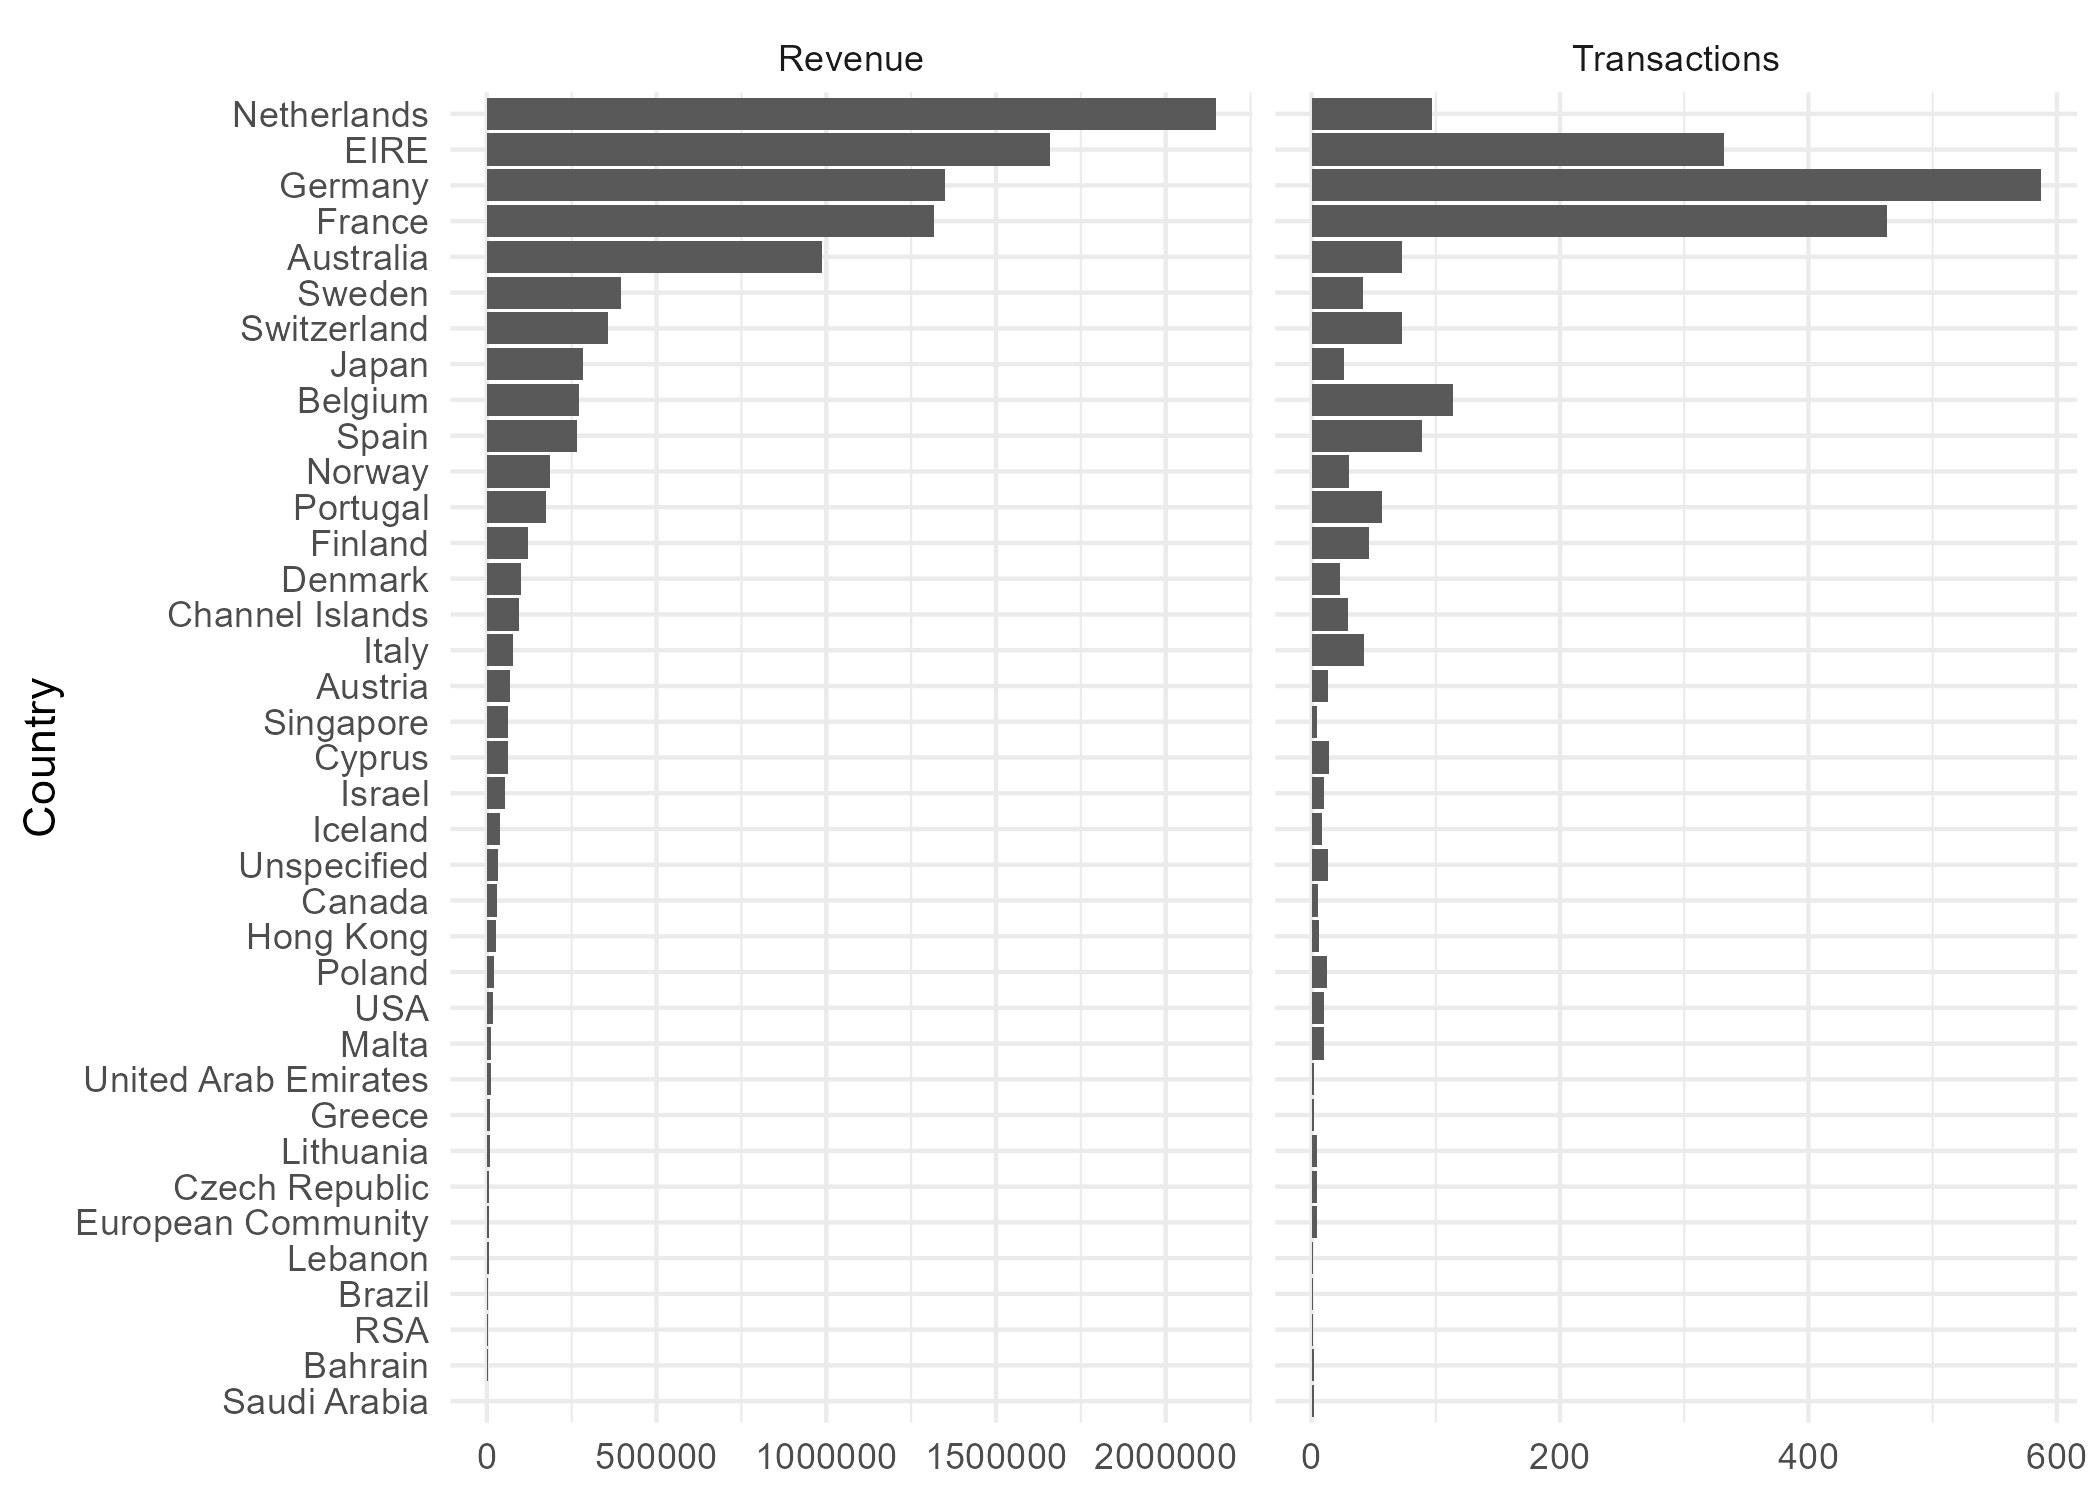
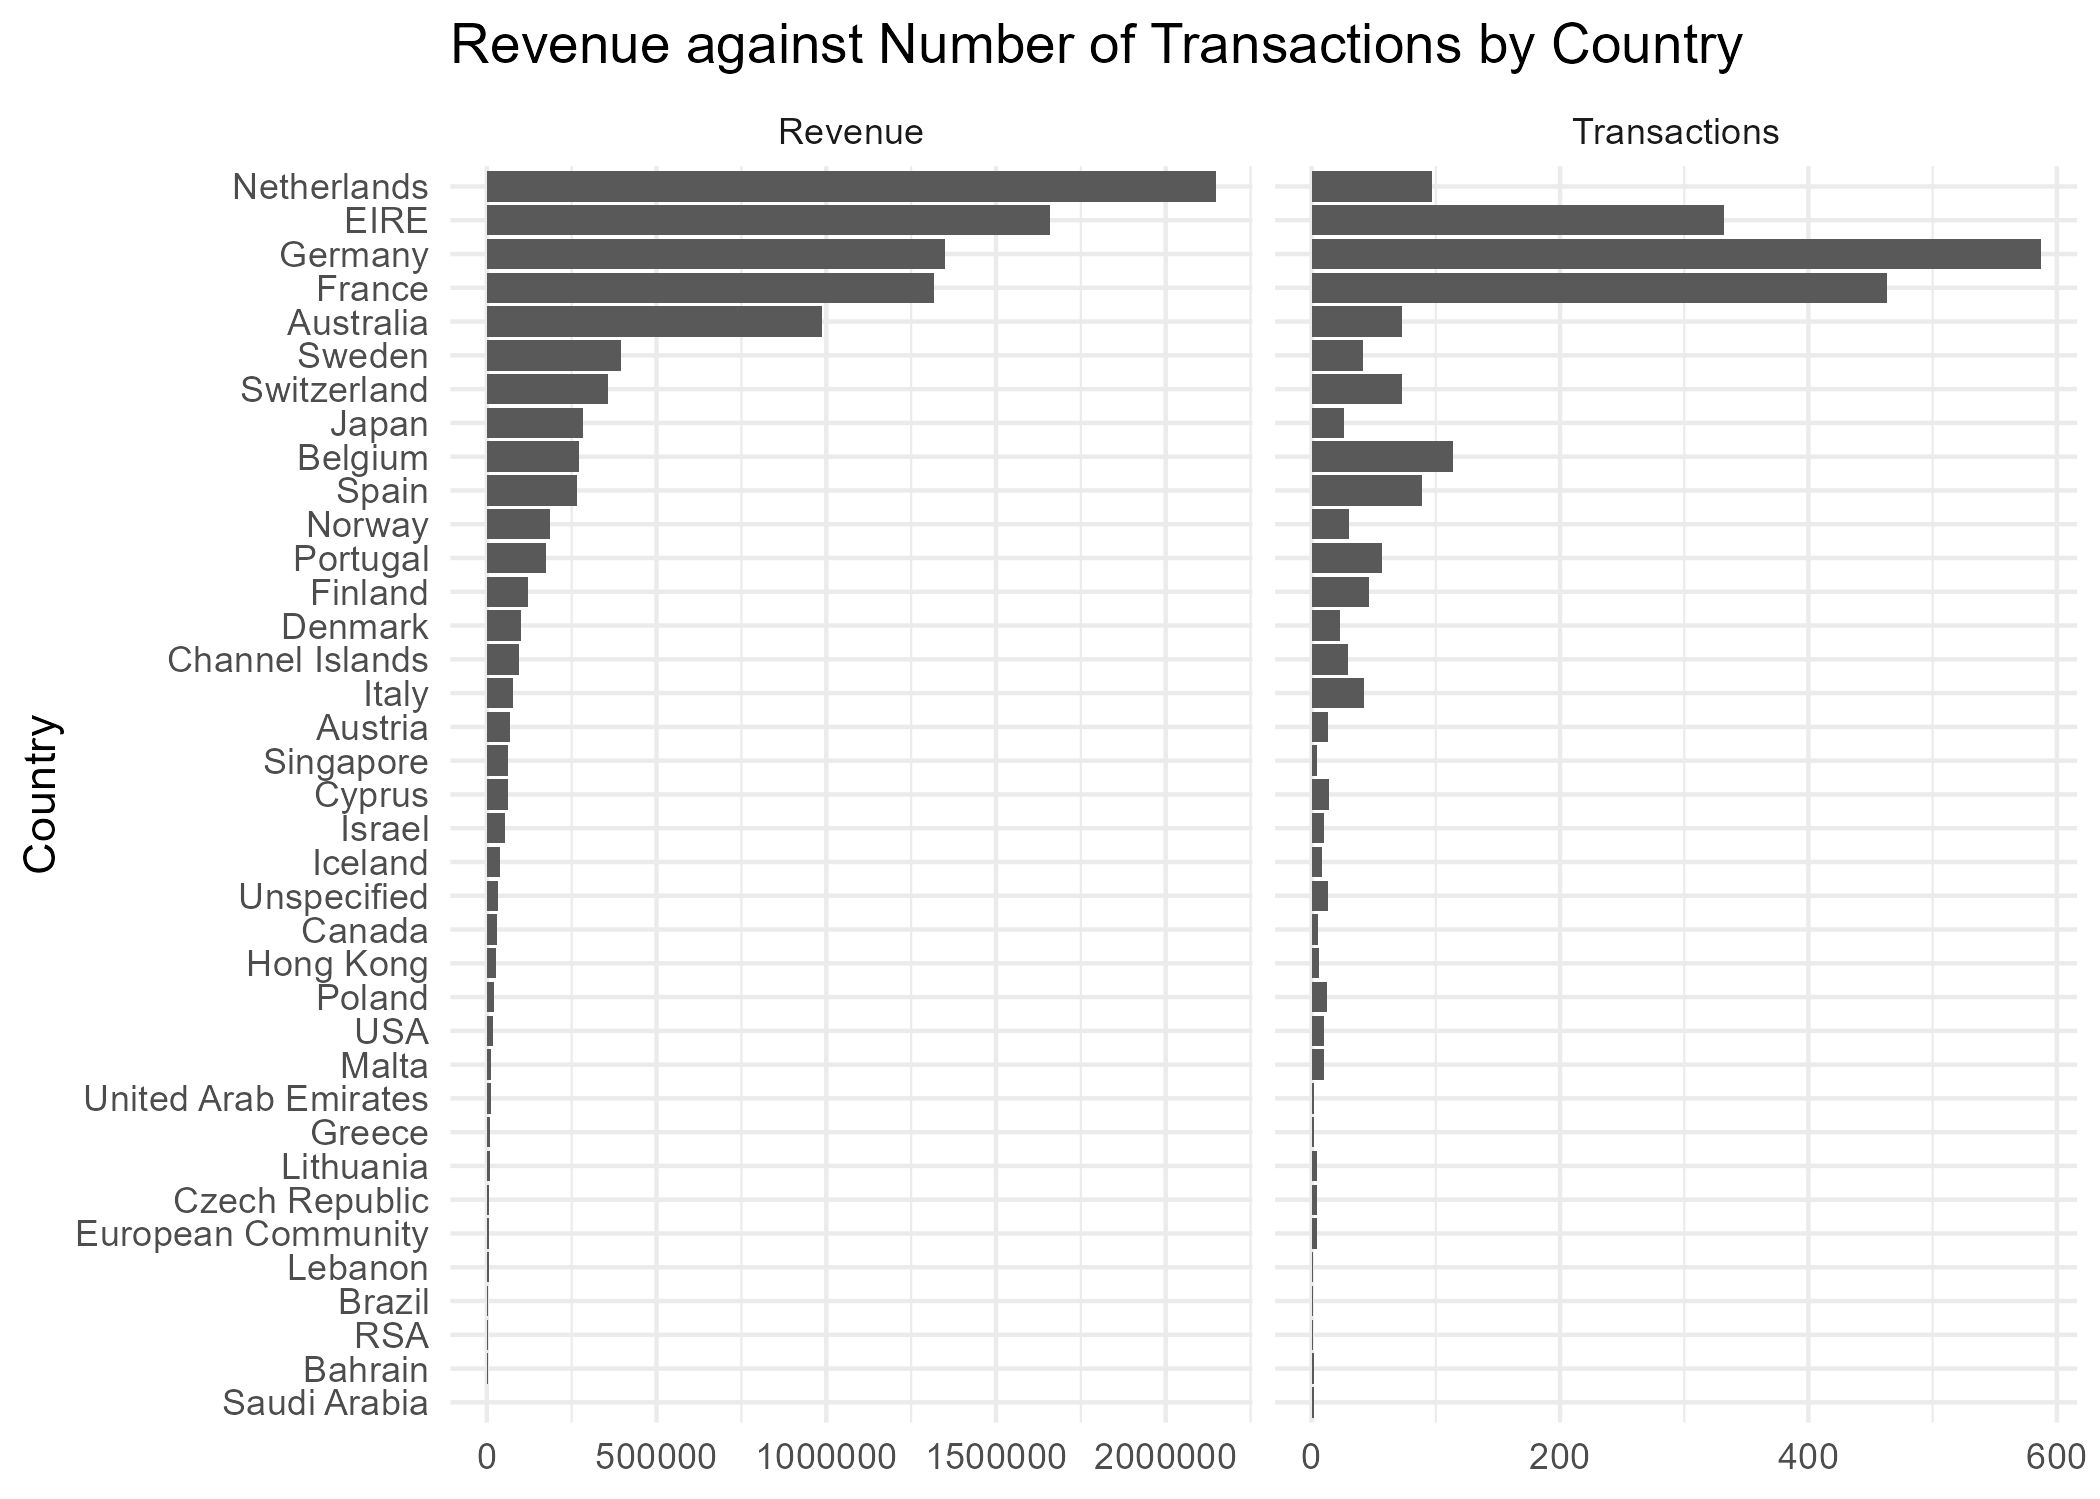
Edits and re-render of report

Changed region(s): [[0.031, 0.0, 0.9905, 0.9513], [0.0, 0.4603, 0.031, 0.5831], [0.619, 0.5831, 0.65, 0.6137]]

diff --git a/report.html b/report.html
@@ -10,7 +10,7 @@
 <meta name="author" content="Duc Hoang">
 <meta name="author" content="Aatish Prasad">
 <meta name="author" content="Kishori Akola">
-<meta name="dcterms.date" content="2026-06-07">
+<meta name="dcterms.date" content="2026-06-08">
 
 <title>Your Project Title</title>
 <style>
@@ -81,31 +81,32 @@ div.csl-indent {
     <h2 id="toc-title">Table of contents</h2>
    
   <ul>
-  <li><a href="#introduction" id="toc-introduction" class="nav-link active" data-scroll-target="#introduction"><span class="header-section-number">1</span> Introduction</a>
+  <li><a href="#executive-summary" id="toc-executive-summary" class="nav-link active" data-scroll-target="#executive-summary"><span class="header-section-number">1</span> Executive Summary</a></li>
+  <li><a href="#introduction" id="toc-introduction" class="nav-link" data-scroll-target="#introduction"><span class="header-section-number">2</span> Introduction</a>
   <ul class="collapse">
-  <li><a href="#research-design-and-purpose" id="toc-research-design-and-purpose" class="nav-link" data-scroll-target="#research-design-and-purpose"><span class="header-section-number">1.1</span> Research Design and Purpose</a></li>
+  <li><a href="#research-design-and-purpose" id="toc-research-design-and-purpose" class="nav-link" data-scroll-target="#research-design-and-purpose"><span class="header-section-number">2.1</span> Research Design and Purpose</a></li>
   </ul></li>
-  <li><a href="#methodology" id="toc-methodology" class="nav-link" data-scroll-target="#methodology"><span class="header-section-number">2</span> Methodology</a>
+  <li><a href="#methodology" id="toc-methodology" class="nav-link" data-scroll-target="#methodology"><span class="header-section-number">3</span> Methodology</a>
   <ul class="collapse">
-  <li><a href="#data-collection-and-sources" id="toc-data-collection-and-sources" class="nav-link" data-scroll-target="#data-collection-and-sources"><span class="header-section-number">2.1</span> Data Collection and Sources</a></li>
-  <li><a href="#preparing-dataset-for-analysis" id="toc-preparing-dataset-for-analysis" class="nav-link" data-scroll-target="#preparing-dataset-for-analysis"><span class="header-section-number">2.2</span> Preparing Dataset for Analysis</a></li>
-  <li><a href="#analysing-sales-trends-over-time" id="toc-analysing-sales-trends-over-time" class="nav-link" data-scroll-target="#analysing-sales-trends-over-time"><span class="header-section-number">2.3</span> Analysing Sales Trends over Time</a></li>
+  <li><a href="#data-collection-and-sources" id="toc-data-collection-and-sources" class="nav-link" data-scroll-target="#data-collection-and-sources"><span class="header-section-number">3.1</span> Data Collection and Sources</a></li>
+  <li><a href="#preparing-dataset-for-analysis" id="toc-preparing-dataset-for-analysis" class="nav-link" data-scroll-target="#preparing-dataset-for-analysis"><span class="header-section-number">3.2</span> Preparing Dataset for Analysis</a></li>
+  <li><a href="#analysing-sales-trends-over-time" id="toc-analysing-sales-trends-over-time" class="nav-link" data-scroll-target="#analysing-sales-trends-over-time"><span class="header-section-number">3.3</span> Analysing Sales Trends over Time</a></li>
   </ul></li>
-  <li><a href="#results" id="toc-results" class="nav-link" data-scroll-target="#results"><span class="header-section-number">3</span> Results</a>
+  <li><a href="#results" id="toc-results" class="nav-link" data-scroll-target="#results"><span class="header-section-number">4</span> Results</a>
   <ul class="collapse">
-  <li><a href="#number-of-orders-and-total-volume-by-month" id="toc-number-of-orders-and-total-volume-by-month" class="nav-link" data-scroll-target="#number-of-orders-and-total-volume-by-month"><span class="header-section-number">3.1</span> Number of orders and total Volume by month</a></li>
-  <li><a href="#general-quantitative-metrics" id="toc-general-quantitative-metrics" class="nav-link" data-scroll-target="#general-quantitative-metrics"><span class="header-section-number">3.2</span> General Quantitative metrics</a></li>
-  <li><a href="#countries-basket-value" id="toc-countries-basket-value" class="nav-link" data-scroll-target="#countries-basket-value"><span class="header-section-number">3.3</span> Countries’ basket value</a></li>
-  <li><a href="#cancelled-orders-insight" id="toc-cancelled-orders-insight" class="nav-link" data-scroll-target="#cancelled-orders-insight"><span class="header-section-number">3.4</span> Cancelled orders insight</a></li>
+  <li><a href="#number-of-orders-and-total-volume-by-month" id="toc-number-of-orders-and-total-volume-by-month" class="nav-link" data-scroll-target="#number-of-orders-and-total-volume-by-month"><span class="header-section-number">4.1</span> Number of orders and total Volume by month</a></li>
+  <li><a href="#general-quantitative-metrics" id="toc-general-quantitative-metrics" class="nav-link" data-scroll-target="#general-quantitative-metrics"><span class="header-section-number">4.2</span> General Quantitative metrics</a></li>
+  <li><a href="#sec-basket-values" id="toc-sec-basket-values" class="nav-link" data-scroll-target="#sec-basket-values"><span class="header-section-number">4.3</span> Countries’ basket value</a></li>
+  <li><a href="#cancelled-orders-insight" id="toc-cancelled-orders-insight" class="nav-link" data-scroll-target="#cancelled-orders-insight"><span class="header-section-number">4.4</span> Cancelled orders insight</a></li>
   </ul></li>
-  <li><a href="#dicussion" id="toc-dicussion" class="nav-link" data-scroll-target="#dicussion"><span class="header-section-number">4</span> Dicussion</a>
+  <li><a href="#dicussion" id="toc-dicussion" class="nav-link" data-scroll-target="#dicussion"><span class="header-section-number">5</span> Dicussion</a>
   <ul class="collapse">
-  <li><a href="#general-market-is-seasonal" id="toc-general-market-is-seasonal" class="nav-link" data-scroll-target="#general-market-is-seasonal"><span class="header-section-number">4.1</span> General market is Seasonal</a></li>
-  <li><a href="#high-value-international-b2b-market" id="toc-high-value-international-b2b-market" class="nav-link" data-scroll-target="#high-value-international-b2b-market"><span class="header-section-number">4.2</span> High value international B2B market</a></li>
-  <li><a href="#barrier-regarding-international-sales" id="toc-barrier-regarding-international-sales" class="nav-link" data-scroll-target="#barrier-regarding-international-sales"><span class="header-section-number">4.3</span> Barrier regarding international sales</a></li>
+  <li><a href="#general-market-is-seasonal" id="toc-general-market-is-seasonal" class="nav-link" data-scroll-target="#general-market-is-seasonal"><span class="header-section-number">5.1</span> General market is Seasonal</a></li>
+  <li><a href="#high-value-international-b2b-market" id="toc-high-value-international-b2b-market" class="nav-link" data-scroll-target="#high-value-international-b2b-market"><span class="header-section-number">5.2</span> High value international B2B market</a></li>
+  <li><a href="#barrier-regarding-international-sales" id="toc-barrier-regarding-international-sales" class="nav-link" data-scroll-target="#barrier-regarding-international-sales"><span class="header-section-number">5.3</span> Barrier regarding international sales</a></li>
   </ul></li>
-  <li><a href="#recommendation" id="toc-recommendation" class="nav-link" data-scroll-target="#recommendation"><span class="header-section-number">5</span> Recommendation</a></li>
-  <li><a href="#references" id="toc-references" class="nav-link" data-scroll-target="#references"><span class="header-section-number">6</span> References</a></li>
+  <li><a href="#recommendation" id="toc-recommendation" class="nav-link" data-scroll-target="#recommendation"><span class="header-section-number">6</span> Recommendation</a></li>
+  <li><a href="#references" id="toc-references" class="nav-link" data-scroll-target="#references"><span class="header-section-number">7</span> References</a></li>
   </ul>
 <div class="quarto-alternate-formats"><h2>Other Formats</h2><ul><li><a href="report.pdf"><i class="bi bi-file-pdf"></i>PDF</a></li></ul></div></nav>
 </div>
@@ -133,7 +134,7 @@ div.csl-indent {
     <div>
     <div class="quarto-title-meta-heading">Published</div>
     <div class="quarto-title-meta-contents">
-      <p class="date">June 7, 2026</p>
+      <p class="date">June 8, 2026</p>
     </div>
   </div>
   
@@ -145,10 +146,27 @@ div.csl-indent {
 </header>
 
 
-<section id="introduction" class="level2" data-number="1">
-<h2 data-number="1" class="anchored" data-anchor-id="introduction"><span class="header-section-number">1</span> Introduction</h2>
-<section id="research-design-and-purpose" class="level3" data-number="1.1">
-<h3 data-number="1.1" class="anchored" data-anchor-id="research-design-and-purpose"><span class="header-section-number">1.1</span> Research Design and Purpose</h3>
+<div class="callout callout-style-default callout-important callout-titled">
+<div class="callout-header d-flex align-content-center">
+<div class="callout-icon-container">
+<i class="callout-icon"></i>
+</div>
+<div class="callout-title-container flex-fill">
+Important
+</div>
+</div>
+<div class="callout-body-container callout-body">
+<p>Please run <code>renv::restore()</code> in the R console before attempting to render this document.</p>
+</div>
+</div>
+<section id="executive-summary" class="level2" data-number="1">
+<h2 data-number="1" class="anchored" data-anchor-id="executive-summary"><span class="header-section-number">1</span> Executive Summary</h2>
+<p>This report analyses the retail transaction data of a UK based e-retailer selling gifts and house ware for all ages, to identify sales and revenue patterns across the United Kingdom and international markets during the Jan 2019 - Dec 2019 period. The data set was cleaned by removing duplicate records and creating new variables to support analysis. The primary focus of this report was to compare transaction volume and the revenue generated within the UK and in the international market, with a secondary focus on identifying countries outside the UK that may represent viable growth opportunities. Results indicated that while the majority of transaction volume and revenue was generated by the UK, a few countries, such as the Netherlands and Ireland (EIRE), had a disproportionately higher revenue against transaction volume, which may merit further investigation.</p>
+</section>
+<section id="introduction" class="level2" data-number="2">
+<h2 data-number="2" class="anchored" data-anchor-id="introduction"><span class="header-section-number">2</span> Introduction</h2>
+<section id="research-design-and-purpose" class="level3" data-number="2.1">
+<h3 data-number="2.1" class="anchored" data-anchor-id="research-design-and-purpose"><span class="header-section-number">2.1</span> Research Design and Purpose</h3>
 <blockquote class="blockquote">
 <p><strong>Purpose</strong>: examine the sales performance of a UK-based online retail business over a 13-month period from December 2018 to December 2019.</p>
 </blockquote>
@@ -156,16 +174,16 @@ div.csl-indent {
 <p>This study first adopts a descriptive analytical approach, utilising transactional records to summarise and visualise patterns in the data. Furthermore, further business insights are further investigated to identify key values that would inform future operational and marketing decisions.</p>
 </section>
 </section>
-<section id="methodology" class="level2" data-number="2">
-<h2 data-number="2" class="anchored" data-anchor-id="methodology"><span class="header-section-number">2</span> Methodology</h2>
-<section id="data-collection-and-sources" class="level3" data-number="2.1">
-<h3 data-number="2.1" class="anchored" data-anchor-id="data-collection-and-sources"><span class="header-section-number">2.1</span> Data Collection and Sources</h3>
+<section id="methodology" class="level2" data-number="3">
+<h2 data-number="3" class="anchored" data-anchor-id="methodology"><span class="header-section-number">3</span> Methodology</h2>
+<section id="data-collection-and-sources" class="level3" data-number="3.1">
+<h3 data-number="3.1" class="anchored" data-anchor-id="data-collection-and-sources"><span class="header-section-number">3.1</span> Data Collection and Sources</h3>
 <p>This report utilizes secondary data sourced from <em>Kaggle</em>, a prominent open-source data repository (<span class="citation" data-cites="ramos_e-commerce_nodate">Ramos (<a href="#ref-ramos_e-commerce_nodate" role="doc-biblioref">n.d.</a>)</span>). The dataset comprises one year of historical sales transactions from Dec 2018 to Dec 2019 from a UK-based online retailer. This retailer is headquartered in London, specializing in gifts and homewares for both adults and children.</p>
 <p>The business operates on a global scale and serves a dual customer base. Operations include <strong>both direct-to-consumer (B2C) sales</strong>, where individuals purchase for personal use, <strong>and business-to-business (B2B) transactions</strong>, where small businesses purchase items in bulk for retail distribution. Consequently, the transaction data is expected to exhibit diverse purchasing patterns, reflecting both individual consumer behavior and wholesale buying cycles.</p>
 <p>Structurally, the dataset contains <strong>536,350 observations</strong> and <strong>8 variables</strong>. Each record represents the quantity of a single product sold as part of a transaction; a transaction can have multiple products.</p>
 </section>
-<section id="preparing-dataset-for-analysis" class="level3" data-number="2.2">
-<h3 data-number="2.2" class="anchored" data-anchor-id="preparing-dataset-for-analysis"><span class="header-section-number">2.2</span> Preparing Dataset for Analysis</h3>
+<section id="preparing-dataset-for-analysis" class="level3" data-number="3.2">
+<h3 data-number="3.2" class="anchored" data-anchor-id="preparing-dataset-for-analysis"><span class="header-section-number">3.2</span> Preparing Dataset for Analysis</h3>
 <p>To ensure data integrity and facilitate robust analysis, the raw dataset underwent a systematic cleaning and transformation process. Initially, variable names were standardized for consistency, and exact duplicate records were identified and removed to prevent observation bias and the double-counting of revenue.</p>
 <ul>
 <li><p><strong>Standardization &amp; Deduplication</strong>: Column headers were standardized, and duplicate records were removed from the dataset.</p></li>
@@ -175,8 +193,8 @@ div.csl-indent {
 </ul>
 <p>Following the deduplication and feature engineering phases, the final prepared dataset consists of 531,150 observations across 13 variables.</p>
 </section>
-<section id="analysing-sales-trends-over-time" class="level3" data-number="2.3">
-<h3 data-number="2.3" class="anchored" data-anchor-id="analysing-sales-trends-over-time"><span class="header-section-number">2.3</span> Analysing Sales Trends over Time</h3>
+<section id="analysing-sales-trends-over-time" class="level3" data-number="3.3">
+<h3 data-number="3.3" class="anchored" data-anchor-id="analysing-sales-trends-over-time"><span class="header-section-number">3.3</span> Analysing Sales Trends over Time</h3>
 <p>In order to identify trends in both number of transactions and total revenue for the UK and non-UK markets, all transactions in the dataset were first assigned one of these two regions. This allowed for the creation of <a href="#fig-overview" class="quarto-xref">Figure&nbsp;1</a>, a collection of time-series plots for transactions and revenue divided by region.</p>
 <p>These plots allow for the easy visual identification of market trends across the 13-month period we have data for.</p>
 <div class="cell">
@@ -195,15 +213,30 @@ Figure&nbsp;1: Monthly Transaction and Revenue in UK vs non-UK countries in 2018
 </div>
 </section>
 </section>
-<section id="results" class="level2" data-number="3">
-<h2 data-number="3" class="anchored" data-anchor-id="results"><span class="header-section-number">3</span> Results</h2>
-<section id="number-of-orders-and-total-volume-by-month" class="level3" data-number="3.1">
-<h3 data-number="3.1" class="anchored" data-anchor-id="number-of-orders-and-total-volume-by-month"><span class="header-section-number">3.1</span> Number of orders and total Volume by month</h3>
+<section id="results" class="level2" data-number="4">
+<h2 data-number="4" class="anchored" data-anchor-id="results"><span class="header-section-number">4</span> Results</h2>
+<section id="number-of-orders-and-total-volume-by-month" class="level3" data-number="4.1">
+<h3 data-number="4.1" class="anchored" data-anchor-id="number-of-orders-and-total-volume-by-month"><span class="header-section-number">4.1</span> Number of orders and total Volume by month</h3>
 <p>As presented in <a href="#fig-overview" class="quarto-xref">Figure&nbsp;1</a>, The UK market consistently dominated in both number of transactions and revenue throughout the recorded period. A pronounced upward trend is observed from September 2019 onwards, with transactions and revenue in the UK peaking in November 2019 at nearly 2500 orders and approximately £6.8M respectively, likely driven by seasonal demand ahead of the holiday period.</p>
 <p>The Non-UK market, while significantly smaller in absolute scale, demonstrated a gradual growth trajectory across 2019 with the upward trend merely mirror UK market. This suggests a slow but steady expansion of the international customer base.</p>
+<p><a href="#fig-non-uk-figures" class="quarto-xref">Figure&nbsp;2</a> shows the top non-UK countries by revenue amount, and also hints at an interesting idea; that the retailer is performing very well in some countries despite relatively low numbers of transactions. This will be covered in more depth in <a href="#sec-basket-values" class="quarto-xref">Section&nbsp;4.3</a>.</p>
+<div class="cell">
+<div class="cell-output-display">
+<div id="fig-non-uk-figures" class="quarto-float quarto-figure quarto-figure-center anchored">
+<figure class="quarto-float quarto-float-fig figure">
+<div aria-describedby="fig-non-uk-figures-caption-0ceaefa1-69ba-4598-a22c-09a6ac19f8ca">
+<a href="report_files/figure-html/fig-non-uk-figures-1.png" class="lightbox" data-gallery="quarto-lightbox-gallery-2" title="Figure&nbsp;2: Transactions and Revenue for Non-UK Countries"><img src="report_files/figure-html/fig-non-uk-figures-1.png" class="img-fluid figure-img" width="672"></a>
+</div>
+<figcaption class="quarto-float-caption-bottom quarto-float-caption quarto-float-fig" id="fig-non-uk-figures-caption-0ceaefa1-69ba-4598-a22c-09a6ac19f8ca">
+Figure&nbsp;2: Transactions and Revenue for Non-UK Countries
+</figcaption>
+</figure>
+</div>
+</div>
+</div>
 </section>
-<section id="general-quantitative-metrics" class="level3" data-number="3.2">
-<h3 data-number="3.2" class="anchored" data-anchor-id="general-quantitative-metrics"><span class="header-section-number">3.2</span> General Quantitative metrics</h3>
+<section id="general-quantitative-metrics" class="level3" data-number="4.2">
+<h3 data-number="4.2" class="anchored" data-anchor-id="general-quantitative-metrics"><span class="header-section-number">4.2</span> General Quantitative metrics</h3>
 <p>As seen in <a href="#fig-overview" class="quarto-xref">Figure&nbsp;1</a>, both the UK and Non-UK markets reached their peak transaction volumes and revenue towards the end of 2019. Referencing <a href="#tbl-overview" class="quarto-xref">Table&nbsp;1</a>, the UK reached 2487 transactions and £6.81M in revenue in November 2019, while Non-UK countries peaked at 266 transactions in the same month. This Q4 surge is consistent with seasonal holidays like Christmas and New Year.</p>
 <p>Notably, Non-UK maximum revenue occurred in October 2019 (£1.37M) rather than November despite November having more transactions, suggesting a higher average basket value per order in October.</p>
 <p>The minimum values for both regions fall in December 2019 across all metrics. This might not be a genuine business downturn but rather a data artefact, as December 2019 represents an incomplete month in the dataset.</p>
@@ -283,36 +316,36 @@ Region
 </div>
 </div>
 </section>
-<section id="countries-basket-value" class="level3" data-number="3.3">
-<h3 data-number="3.3" class="anchored" data-anchor-id="countries-basket-value"><span class="header-section-number">3.3</span> Countries’ basket value</h3>
-<p><a href="#fig-basket-value" class="quarto-xref">Figure&nbsp;2</a> presents basket size statistics across top 10 countries with the biggest basket and the UK. Netherlands, Australia and Singapore recorded the highest mean basket values at £22888, £16055 and £15870 respectively. Notably, these countries achieved these values from a very small number of transactions, especially Singapore had only 4 transactions, this pattern could indicate wholesale or B2B purchasing behaviour rather than individual retail orders.</p>
+<section id="sec-basket-values" class="level3" data-number="4.3">
+<h3 data-number="4.3" class="anchored" data-anchor-id="sec-basket-values"><span class="header-section-number">4.3</span> Countries’ basket value</h3>
+<p><a href="#fig-basket-value" class="quarto-xref">Figure&nbsp;3</a> presents basket size statistics across top 10 countries with the biggest basket and the UK. Netherlands, Australia and Singapore recorded the highest mean basket values at £22888, £16055 and £15870 respectively. Notably, these countries achieved these values from a very small number of transactions, especially Singapore had only 4 transactions, this pattern could indicate wholesale or B2B purchasing behaviour rather than individual retail orders.</p>
 <div class="cell">
 <div class="cell-output-display">
 <div id="fig-basket-value" class="quarto-float quarto-figure quarto-figure-center anchored">
 <figure class="quarto-float quarto-float-fig figure">
 <div aria-describedby="fig-basket-value-caption-0ceaefa1-69ba-4598-a22c-09a6ac19f8ca">
-<a href="report_files/figure-html/fig-basket-value-1.png" class="lightbox" data-gallery="quarto-lightbox-gallery-2" title="Figure&nbsp;2: Metrics for Basket Size per transaction by country in 2018-2019 period"><img src="report_files/figure-html/fig-basket-value-1.png" class="img-fluid figure-img" width="672"></a>
+<a href="report_files/figure-html/fig-basket-value-1.png" class="lightbox" data-gallery="quarto-lightbox-gallery-3" title="Figure&nbsp;3: Metrics for Basket Size per transaction by country in 2018-2019 period"><img src="report_files/figure-html/fig-basket-value-1.png" class="img-fluid figure-img" width="672"></a>
 </div>
 <figcaption class="quarto-float-caption-bottom quarto-float-caption quarto-float-fig" id="fig-basket-value-caption-0ceaefa1-69ba-4598-a22c-09a6ac19f8ca">
-Figure&nbsp;2: Metrics for Basket Size per transaction by country in 2018-2019 period
+Figure&nbsp;3: Metrics for Basket Size per transaction by country in 2018-2019 period
 </figcaption>
 </figure>
 </div>
 </div>
 </div>
 </section>
-<section id="cancelled-orders-insight" class="level3" data-number="3.4">
-<h3 data-number="3.4" class="anchored" data-anchor-id="cancelled-orders-insight"><span class="header-section-number">3.4</span> Cancelled orders insight</h3>
-<p><a href="#fig-cancellation" class="quarto-xref">Figure&nbsp;3</a> shows that the USA has the highest cancellation rate at 29.63%, followed by Malta (9.4%) and Japan (9.16%), all well above the UK benchmark of 1.52%. However, despite its low rate, the UK incurs the largest revenue loss at £2509.3K due to its transaction number. Among Non-UK markets, EIRE (Ireland) records the highest revenue lost at £52.8K, making it the most financially impactful cancellation market outside the UK.</p>
+<section id="cancelled-orders-insight" class="level3" data-number="4.4">
+<h3 data-number="4.4" class="anchored" data-anchor-id="cancelled-orders-insight"><span class="header-section-number">4.4</span> Cancelled orders insight</h3>
+<p><a href="#fig-cancellation" class="quarto-xref">Figure&nbsp;4</a> shows that the USA has the highest cancellation rate at 29.63%, followed by Malta (9.4%) and Japan (9.16%), all well above the UK benchmark of 1.52%. However, despite its low rate, the UK incurs the largest revenue loss at £2509.3K due to its transaction number. Among Non-UK markets, EIRE (Ireland) records the highest revenue lost at £52.8K, making it the most financially impactful cancellation market outside the UK.</p>
 <div class="cell">
 <div class="cell-output-display">
 <div id="fig-cancellation" class="quarto-float quarto-figure quarto-figure-center anchored">
 <figure class="quarto-float quarto-float-fig figure">
 <div aria-describedby="fig-cancellation-caption-0ceaefa1-69ba-4598-a22c-09a6ac19f8ca">
-<a href="report_files/figure-html/fig-cancellation-1.png" class="lightbox" data-gallery="quarto-lightbox-gallery-3" title="Figure&nbsp;3: Cancellation rate and Revenue lost by each Country"><img src="report_files/figure-html/fig-cancellation-1.png" class="img-fluid figure-img" width="672"></a>
+<a href="report_files/figure-html/fig-cancellation-1.png" class="lightbox" data-gallery="quarto-lightbox-gallery-4" title="Figure&nbsp;4: Cancellation rate and Revenue lost by each Country"><img src="report_files/figure-html/fig-cancellation-1.png" class="img-fluid figure-img" width="672"></a>
 </div>
 <figcaption class="quarto-float-caption-bottom quarto-float-caption quarto-float-fig" id="fig-cancellation-caption-0ceaefa1-69ba-4598-a22c-09a6ac19f8ca">
-Figure&nbsp;3: Cancellation rate and Revenue lost by each Country
+Figure&nbsp;4: Cancellation rate and Revenue lost by each Country
 </figcaption>
 </figure>
 </div>
@@ -320,30 +353,30 @@ Figure&nbsp;3: Cancellation rate and Revenue lost by each Country
 </div>
 </section>
 </section>
-<section id="dicussion" class="level2" data-number="4">
-<h2 data-number="4" class="anchored" data-anchor-id="dicussion"><span class="header-section-number">4</span> Dicussion</h2>
+<section id="dicussion" class="level2" data-number="5">
+<h2 data-number="5" class="anchored" data-anchor-id="dicussion"><span class="header-section-number">5</span> Dicussion</h2>
 <p>The results indicates that this business is operationally strong in its domestic market but has significant untapped potential internationally.</p>
-<section id="general-market-is-seasonal" class="level3" data-number="4.1">
-<h3 data-number="4.1" class="anchored" data-anchor-id="general-market-is-seasonal"><span class="header-section-number">4.1</span> General market is Seasonal</h3>
+<section id="general-market-is-seasonal" class="level3" data-number="5.1">
+<h3 data-number="5.1" class="anchored" data-anchor-id="general-market-is-seasonal"><span class="header-section-number">5.1</span> General market is Seasonal</h3>
 <p>The dominant Q4 seasonality observed in <a href="#fig-overview" class="quarto-xref">Figure&nbsp;1</a> suggests the business is <strong>heavily reliant on the festive season period</strong> to drive annual performance. While this concentration generates strong peak revenue, it also <strong>exposes the business to seasonal risk</strong>.</p>
 </section>
-<section id="high-value-international-b2b-market" class="level3" data-number="4.2">
-<h3 data-number="4.2" class="anchored" data-anchor-id="high-value-international-b2b-market"><span class="header-section-number">4.2</span> High value international B2B market</h3>
-<p>The basket size analysis in <a href="#fig-basket-value" class="quarto-xref">Figure&nbsp;2</a> reveals a more complex international picture. Despite lower transaction volumes, most <strong>Non-UK customers spend nearly exponentially more per order comparing to the UK</strong>. Countries such as the Netherlands, Singapore, and Australia demonstrate average basket sizes of approximately £16000, mostly indicate that they belong to the <strong>B2B customer segment</strong>. Rather than casual retail consumers, these clients are bulk purchasers placing infrequent, high-value orders, making them disproportionately valuable relative to their transaction volume.</p>
+<section id="high-value-international-b2b-market" class="level3" data-number="5.2">
+<h3 data-number="5.2" class="anchored" data-anchor-id="high-value-international-b2b-market"><span class="header-section-number">5.2</span> High value international B2B market</h3>
+<p>The basket size analysis in <a href="#fig-basket-value" class="quarto-xref">Figure&nbsp;3</a> reveals a more complex international picture. Despite lower transaction volumes, most <strong>Non-UK customers spend nearly exponentially more per order comparing to the UK</strong>. Countries such as the Netherlands, Singapore, and Australia demonstrate average basket sizes of approximately £16000, mostly indicate that they belong to the <strong>B2B customer segment</strong>. Rather than casual retail consumers, these clients are bulk purchasers placing infrequent, high-value orders, making them disproportionately valuable relative to their transaction volume.</p>
 </section>
-<section id="barrier-regarding-international-sales" class="level3" data-number="4.3">
-<h3 data-number="4.3" class="anchored" data-anchor-id="barrier-regarding-international-sales"><span class="header-section-number">4.3</span> Barrier regarding international sales</h3>
-<p>However, <a href="#fig-cancellation" class="quarto-xref">Figure&nbsp;3</a> highlights a key operational challenge in international markets. The cancellation rate at the USA (29.6%), Japan (9.2%) and Germany (4.1%) all exceed the UK benchmark of 1.52%, suggesting that international fulfilment reliability remains inconsistent. While EIRE represents the largest Non-UK revenue loss at £52.8K, the high-rate markets like the USA likely reflect <strong>demand uncertainty</strong> or <strong>logistics hindrance</strong> rather than product dissatisfaction.</p>
+<section id="barrier-regarding-international-sales" class="level3" data-number="5.3">
+<h3 data-number="5.3" class="anchored" data-anchor-id="barrier-regarding-international-sales"><span class="header-section-number">5.3</span> Barrier regarding international sales</h3>
+<p>However, <a href="#fig-cancellation" class="quarto-xref">Figure&nbsp;4</a> highlights a key operational challenge in international markets. The cancellation rate at the USA (29.6%), Japan (9.2%) and Germany (4.1%) all exceed the UK benchmark of 1.52%, suggesting that international fulfilment reliability remains inconsistent. While EIRE represents the largest Non-UK revenue loss at £52.8K, the high-rate markets like the USA likely reflect <strong>demand uncertainty</strong> or <strong>logistics hindrance</strong> rather than product dissatisfaction.</p>
 </section>
 </section>
-<section id="recommendation" class="level2" data-number="5">
-<h2 data-number="5" class="anchored" data-anchor-id="recommendation"><span class="header-section-number">5</span> Recommendation</h2>
+<section id="recommendation" class="level2" data-number="6">
+<h2 data-number="6" class="anchored" data-anchor-id="recommendation"><span class="header-section-number">6</span> Recommendation</h2>
 <p><strong>Reduce seasonal dependency:</strong> The business should invest in mid-year promotional campaigns, particularly in months of February and April while they showed the modest number, to reduce the financial risk of a single underperforming holiday season.</p>
 <p><strong>Formalise and grow the international wholesale channel:</strong> The high basket sizes recorded in the Netherlands, Australia and Singapore signal an existing wholesale customer base. Rather than treating these as ordinary transactions, the business should <em>develop a dedicated B2B programme with volume-based pricing, account management and tailored outreach</em>.</p>
 <p><strong>Address international fulfilment gaps before scaling:</strong> The elevated cancellation rates in some countries suggest that the operational infrastructure for international orders is not yet mature. Before investing further in these markets, the business should investigate the <em>root causes of cancellations: whether driven by shipping delays, product mismatches, or payment friction</em>. The Netherlands, with a near-zero cancellation rate of 0.17%, offers a useful operational benchmark for what reliable international fulfilment looks like.</p>
 </section>
-<section id="references" class="level2" data-number="6">
-<h2 data-number="6" class="anchored" data-anchor-id="references"><span class="header-section-number">6</span> References</h2>
+<section id="references" class="level2" data-number="7">
+<h2 data-number="7" class="anchored" data-anchor-id="references"><span class="header-section-number">7</span> References</h2>
 <div id="refs" class="references csl-bib-body hanging-indent" data-entry-spacing="0" data-line-spacing="2" role="list">
 <div id="ref-janitor-cite" class="csl-entry" role="listitem">
 Firke, S. (2024). <em>Janitor: Simple tools for examining and cleaning dirty data</em>. <a href="https://doi.org/10.32614/CRAN.package.janitor">https://doi.org/10.32614/CRAN.package.janitor</a>
@@ -353,6 +386,9 @@ Grolemund, G., &amp; Wickham, H. (2011). Dates and times made easy with <span cl
 </div>
 <div id="ref-ramos_e-commerce_nodate" class="csl-entry" role="listitem">
 Ramos, G. (n.d.). <em>E-commerce <span>Business</span> <span>Transaction</span></em>. Retrieved June 6, 2026, from <a href="https://www.kaggle.com/datasets/gabrielramos87/an-online-shop-business">https://www.kaggle.com/datasets/gabrielramos87/an-online-shop-business</a>
+</div>
+<div id="ref-renv-cite" class="csl-entry" role="listitem">
+Ushey, K., &amp; Wickham, H. (2026). <em>Renv: Project environments</em>. <a href="https://doi.org/10.32614/CRAN.package.renv">https://doi.org/10.32614/CRAN.package.renv</a>
 </div>
 <div id="ref-tidyverse-cite" class="csl-entry" role="listitem">
 Wickham, H., Averick, M., Bryan, J., Chang, W., McGowan, L. D., François, R., Grolemund, G., Hayes, A., Henry, L., Hester, J., Kuhn, M., Pedersen, T. L., Miller, E., Bache, S. M., Müller, K., Ooms, J., Robinson, D., Seidel, D. P., Spinu, V., … Yutani, H. (2019). Welcome to the <span class="nocase">tidyverse</span>. <em>Journal of Open Source Software</em>, <em>4</em>(43), 1686. <a href="https://doi.org/10.21105/joss.01686">https://doi.org/10.21105/joss.01686</a>